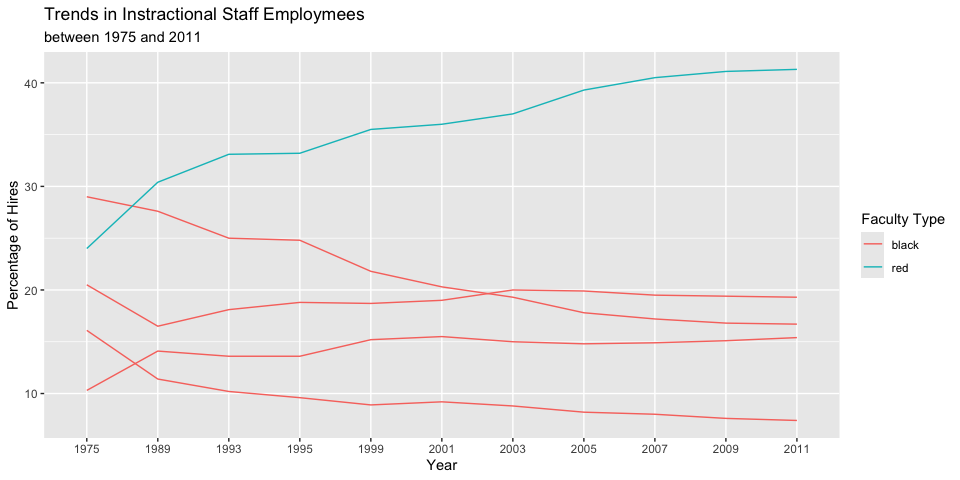
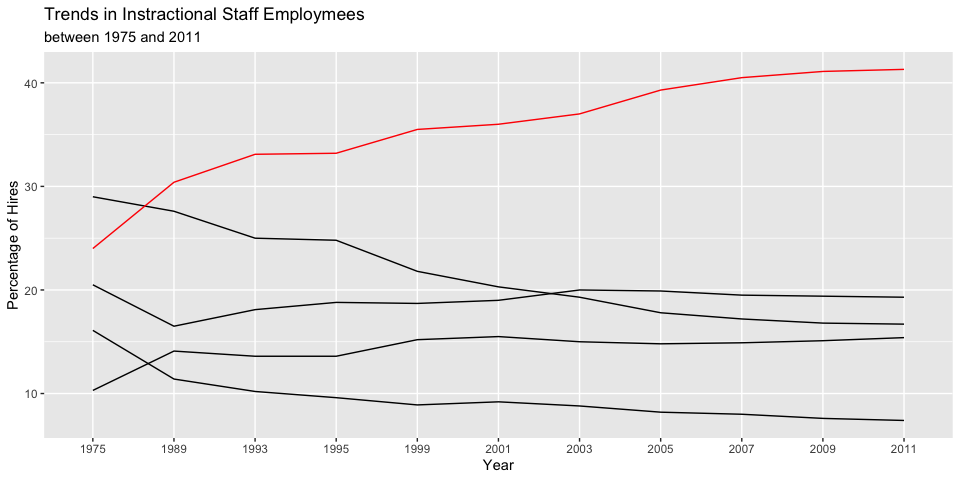
commit

diff --git a/lab-06.md b/lab-06.md
@@ -11,6 +11,7 @@ library(dsbox)
 library(mosaicData) 
 
 staff <- read_csv("data/instructional-staff.csv")
+fisheries <- read_csv("data/fisheries.csv")
 
 #wide to long
 staff_long <- staff %>%
@@ -56,13 +57,63 @@ staff_long %>%
        subtitle = "between 1975 and 2011", 
        x = "Year", 
        y = "Percentage of Hires", 
-       color = "Faculty Type")
+       color = "Faculty Type") +
+  scale_color_identity() # Ensures colors are used directly
 ```
 
 ![](lab-06_files/figure-gfm/line-plot-part-time-1.png)<!-- -->
 
+``` r
+#the general idea is right, but the color and legend are wierd.
+```
+
 ### Exercise 3
 
-…
+The original graphs have a few problems: 1. The y axis of the density
+plot is too stretch out because of the large capture and aquaculture
+industry in China. One way to improve this is to use take the log of the
+tonnage of fish farmed and captured so that the data from other
+countries can be seen. 2. The pie chart is kind of uninformative and
+conveys nothing new from the density plot. One way to improve this is to
+create a histogram/barplot that shows the percentage of fish capture and
+aquaculture for each country.
 
-Add exercise headings as needed.
+``` r
+capture <- fisheries %>%
+  filter(total >= 100000) %>%
+#  ggplot(aes(x = fct_reorder(country, desc(total)), y = capture, group = capture)) +
+  ggplot() +
+  geom_point(aes(x = country, y = capture)) +
+  geom_point(aes(x = country, y = aquaculture)) +
+#  labs(
+#    title = "Tonnage of Fish Captured and Farmed in 2016",
+#    x = "Country",
+#    y = "Total Tonnage of Fish Captured and Farmed") +
+  scale_y_log10(labels = scales::label_number(accuracy = 1)) +
+  theme(
+    axis.text.x = element_text(angle = 45, hjust = 1) # Tilt x-axis ticks
+  )
+capture
+```
+
+    ## Warning in scale_y_log10(labels = scales::label_number(accuracy = 1)): log-10
+    ## transformation introduced infinite values.
+
+![](lab-06_files/figure-gfm/density-plot-1.png)<!-- -->
+
+``` r
+aquaculture <- fisheries %>%
+  filter(total >= 100000) %>%
+  ggplot(aes(x = fct_reorder(country, aquaculture), y = aquaculture, color = "blue")) +
+  geom_density() +
+  labs(
+    title = "Tonnage of Fish Captured and Farmed in 2016",
+    x = "Country",
+    y = "Total Tonnage of Fish Captured and Farmed") +
+  scale_y_log10()
+
+
+#capture + aquaculture +
+#  position("dodge") +
+#  labs(color = "Type")
+```
